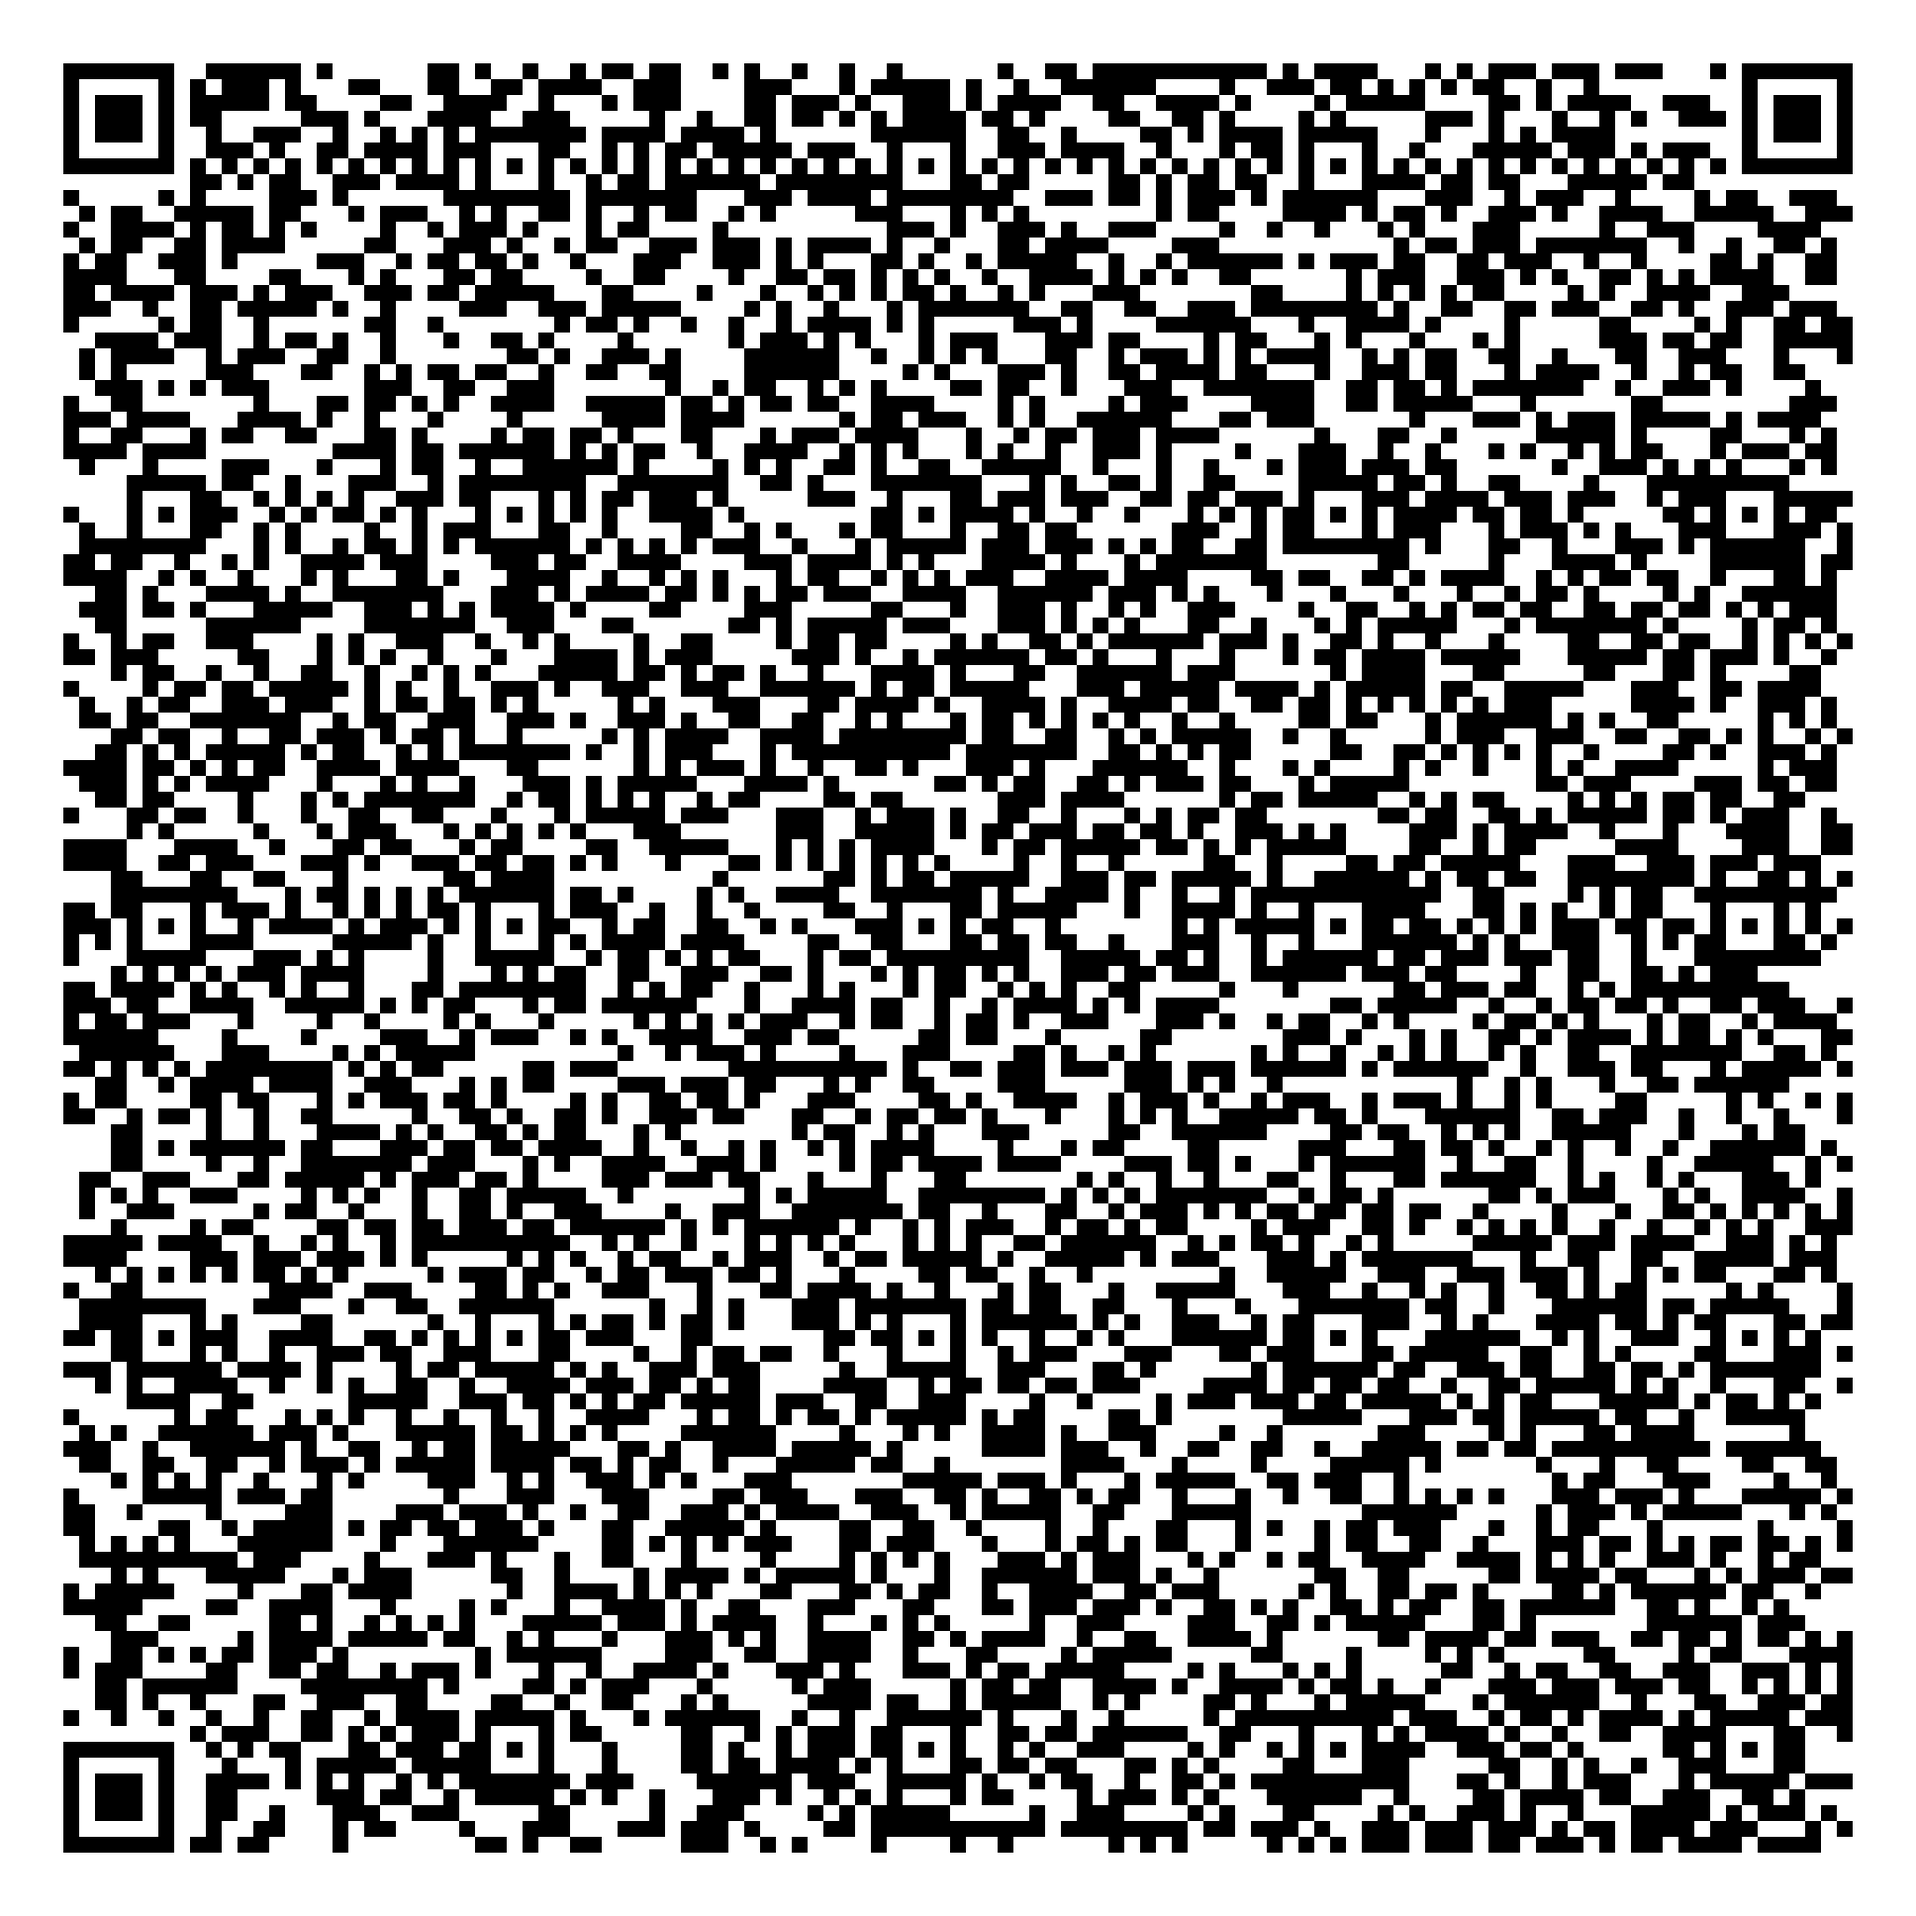
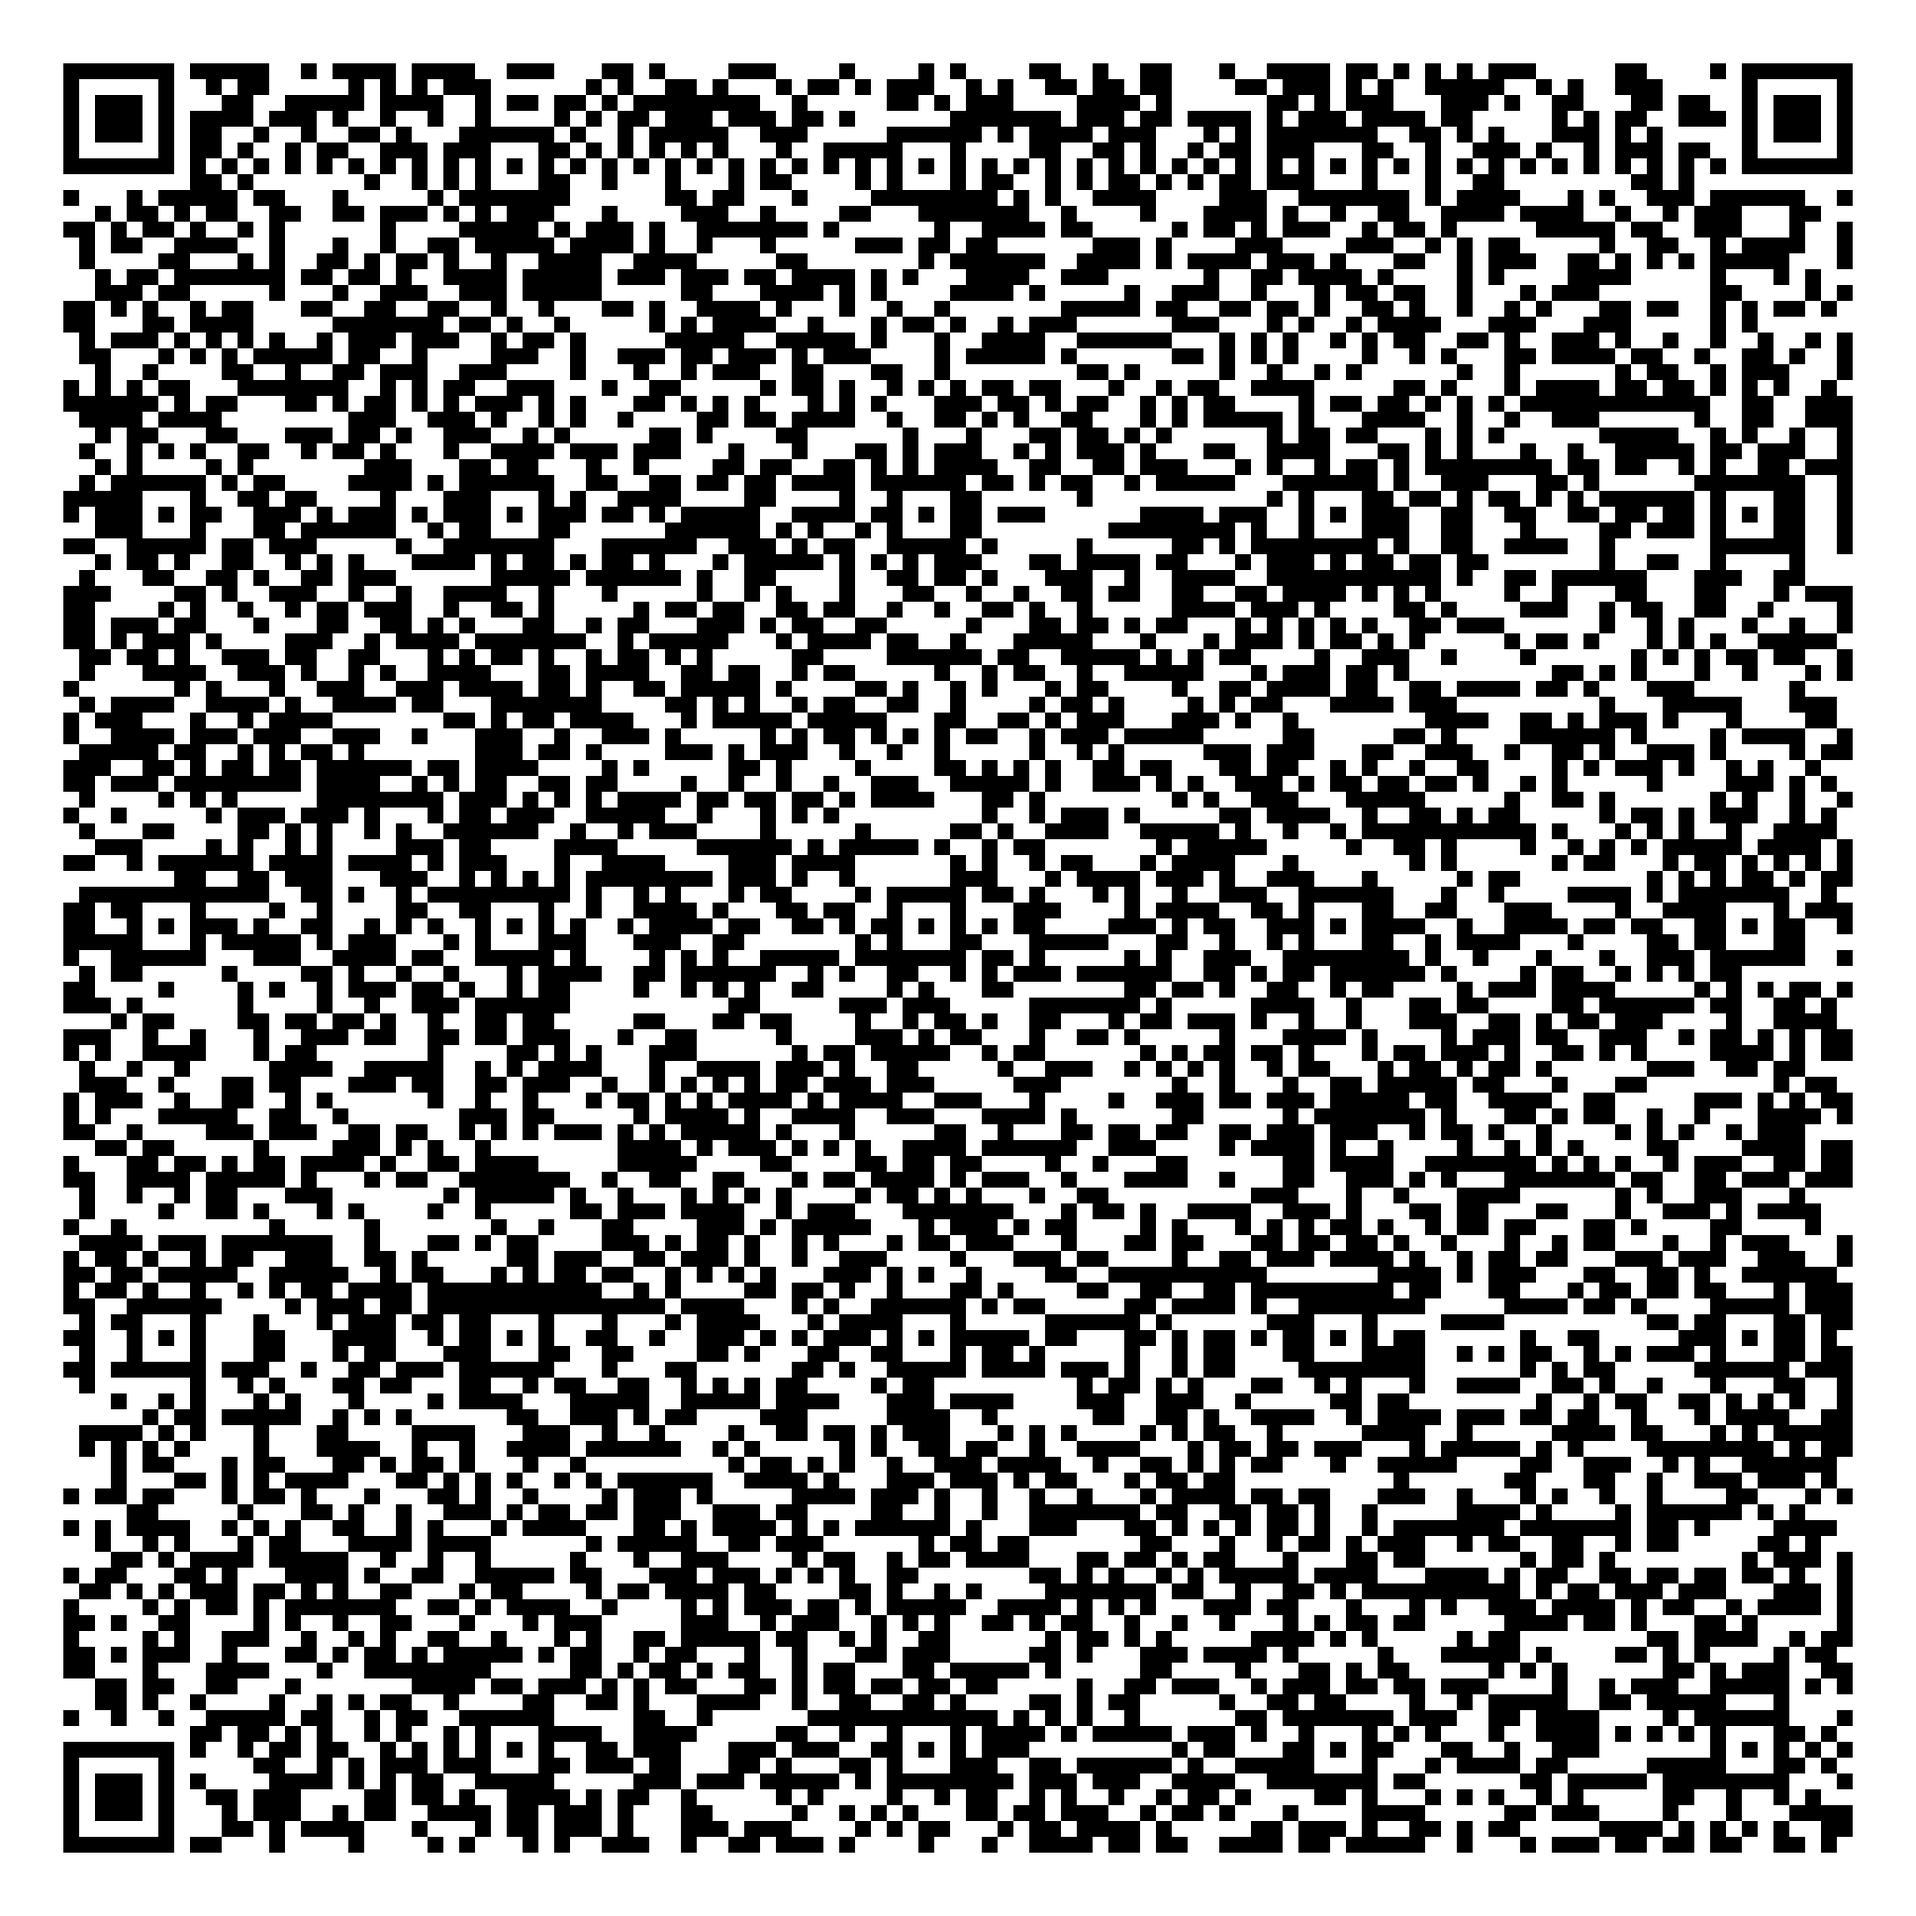
reorganize

diff --git a/backend/zkp_demo/zkp_demo_OneWayQR_Enc.py b/backend/zkp_demo/zkp_demo_OneWayQR_Enc.py
@@ -117,21 +117,21 @@ def generate_rsa_keypair():
     return private_bytes, public_bytes
 
 # Generate QR code with encrypted data
-def generate_qr_code(encrypted_aes_key, ciphertext, nonce, file_name):
+def generate_qr_code(encrypted_aes_key, ciphertext, invalidation_id, nonce, file_name):
     import base64
     # Convert data to base64
     encrypted_aes_key_b64 = base64.b64encode(encrypted_aes_key).decode('utf-8')
     ciphertext_b64 = base64.b64encode(ciphertext).decode('utf-8')
     nonce_b64 = base64.b64encode(nonce).decode('utf-8')
-    
+    invalidation_id_b64 = base64.b64encode(invalidation_id.encode()).decode('utf-8')
     # Combine the data
-    qr_data = f"{encrypted_aes_key_b64},{ciphertext_b64},{nonce_b64}"
+    qr_data = f"{encrypted_aes_key_b64},{ciphertext_b64},{nonce_b64},{invalidation_id_b64}"
     
     # Generate QR code
     qr = qrcode.QRCode(
         version=None,
         error_correction=qrcode.constants.ERROR_CORRECT_M,
-        box_size=10,
+        box_size=16,
         border=4,
     )
     qr.add_data(qr_data)
@@ -155,14 +155,14 @@ def decode_qr_code(file_name):
         raise ValueError("Failed to decode QR code")
     
     # Extract data from the decoded QR code
-    encrypted_aes_key_b64, ciphertext_b64, nonce_b64 = data.split(',')
+    encrypted_aes_key_b64, ciphertext_b64, nonce_b64, invalidation_id_b64 = data.split(',')
     
     # Convert from base64 to bytes
     encrypted_aes_key = base64.b64decode(encrypted_aes_key_b64)
     ciphertext = base64.b64decode(ciphertext_b64)
     nonce = base64.b64decode(nonce_b64)
-    
-    return encrypted_aes_key, ciphertext, nonce
+    invalidation_id = base64.b64decode(invalidation_id_b64).decode('utf-8')
+    return encrypted_aes_key, ciphertext, nonce, invalidation_id
 
 def zkp_protocol():
     # Define the consistent filename for the QR code
@@ -201,8 +201,8 @@ def zkp_protocol():
     invalidation_id = secrets.token_hex(16)
     print(f"Invalidation ID: {invalidation_id}")
 
-    # Step 8: Create proof data
-    proof_data = f"{a},{s},{y},{invalidation_id}"
+    # Step 8: Create proof data (excluding invalidation_id)
+    proof_data = f"{a},{s},{y}"
 
     # Step 9: User generates a symmetric key for AES encryption
     aes_key = AESGCM.generate_key(bit_length=128)
@@ -213,8 +213,8 @@ def zkp_protocol():
     # Step 11: Encrypt the AES key with the gate's RSA public key
     encrypted_aes_key = encrypt_symmetric_key_with_rsa_public_key(aes_key, gate_public_bytes)
 
-    # Step 12: Combine the encrypted AES key, ciphertext, and nonce into the QR code
-    generate_qr_code(encrypted_aes_key, ciphertext, nonce, qr_file_name)
+    # Step 12: Combine the encrypted AES key, ciphertext, nonce, and invalidation_id into the QR code
+    generate_qr_code(encrypted_aes_key, ciphertext, invalidation_id, nonce, qr_file_name)
 
     # Display the QR code for scanning (you can skip this for automation)
     qr_img = Image.open(qr_file_name)
@@ -222,7 +222,7 @@ def zkp_protocol():
 
     # Simulate scanning the QR code
     try:
-        encrypted_aes_key_decoded, ciphertext_decoded, nonce_decoded = decode_qr_code(qr_file_name)
+        encrypted_aes_key_decoded, ciphertext_decoded, nonce_decoded, invalidation_id_decoded = decode_qr_code(qr_file_name)
     except ValueError as e:
         print(f"Error decoding QR code: {e}")
         return
@@ -234,9 +234,12 @@ def zkp_protocol():
     decrypted_proof_data = decrypt_proof_data_with_symmetric_key(ciphertext_decoded, nonce_decoded, aes_key_gate)
     print(f"Decrypted proof data: {decrypted_proof_data}")
 
-    # Step 15: Parse and verify the decrypted proof data
-    a_decoded, s_decoded, y_decoded, id_decoded = decrypted_proof_data.split(',')
-    a_decoded, s_decoded, y_decoded = int(a_decoded), int(s_decoded), int(y_decoded)
+    # Step 15: Parse and verify the decrypted proof data (now only three values)
+    a_decoded, s_decoded, y_decoded = decrypted_proof_data.split(',')
+    a_decoded = int(a_decoded)
+    s_decoded = int(s_decoded)
+    y_decoded = int(y_decoded)
+    id_decoded = invalidation_id_decoded  # Use the invalidation ID from the QR code directly
 
     # Step 16: Gate verifies the proof
     if verify_proof(p, g, y_decoded, a_decoded, e, s_decoded):
